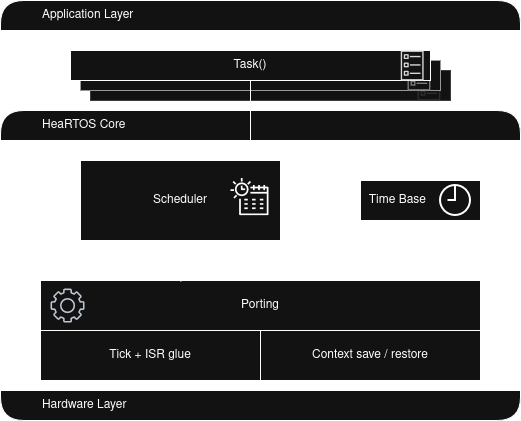
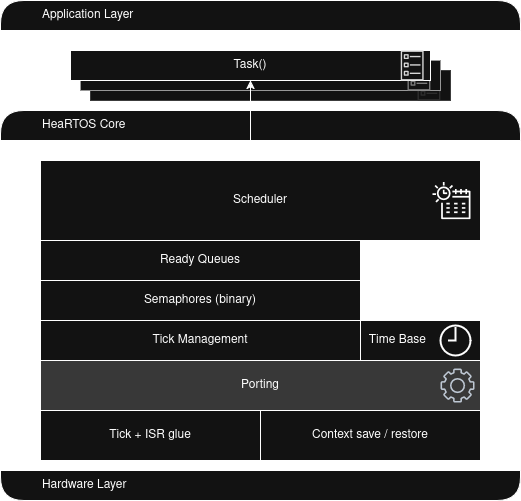
docs(heartos): Add diagrams in README.md

diff --git a/README.md b/README.md
@@ -22,6 +22,40 @@ Minimal footprint, predictable behavior, and zero hardware dependencies in its c
 
 ---
 
+### Architecture
+
+![architecture](docs/images/Architecture.png)]
+
+The Architecture is mainly divided in 3 layers:
+- **Application Layer** : Where the tasks are defined. e.g. camera, UART downlink, HK/FDIR, etc.
+- **HeaRTOS Core** : Where the RTOS lives, manages tasks and calls the port to switch context when necessary.
+  - **HeaRTOS Port** : Wraps the hardware specific methods.
+- **Hardware Layer** : Hardware specific methods, registers, primitives etc.
+
+### Task State Machine
+![task_state_machine.png](docs/images/task_state_machine.png)
+
+Where each task is executed in accordance of the policy adopted by the scheduler.
+
+### Scheduling Flow
+![scheduling_flow.png](docs/images/scheduling_flow.png)
+
+Tick (ISR/signal) -> hrt__tick_isr():
+  - g_tick++
+  - wake any SLEEP tasks whose wake_tick <= now
+  - hrt__pend_context_switch()  (set resched flag)
+
+Scheduler loop (port):
+ - if resched flag:
+   -  next = hrt__pick_next_ready()
+   -  swapcontext/PendSV to next task
+
+Task-level yield/sleep:
+  - mark state (READY->queue or SLEEP)
+  - hrt__pend_context_switch()
+  - hrt_port_yield_to_scheduler()  (safe handoff from task ctx)
+
+
 ## 📁 Repository Layout
 ```
 heartos/
@@ -74,66 +108,6 @@ For further information and CMake flags see [Build](docs/BUILD.md) document.
 ---
 
 ## 🗺 Diagrams
-
-### Architecture
-```
-+-----------------------------------------------------------+
-|                    Application Layer                      |
-|  (User tasks: camera, UART downlink, HK/FDIR, etc.)       |
-+---------------------------+-------------------------------+
-|          HeaRTOS Core     |          HeaRTOS Port         |
-|  - Scheduler              |  - hrt_port_start_systick()   |
-|  - Tick management        |  - hrt_port_enter_scheduler() |
-|  - Ready queues           |  - hrt_port_yield_to_scheduler() |
-|  - Semaphores (binary)    |  - hrt_port_idle_wait()       |
-+---------------------------+-------------------------------+
-|                     Hardware / OS Primitives              |
-| (Cortex-M SysTick/PendSV, or POSIX setitimer/ucontext)    |
-+-----------------------------------------------------------+
-```
-
-### Task State Machine
-```
-     +---------+
-     | CREATED |
-     +----+----+
-          |
-          v
-     +----+----+
-     |  READY  |<-----------------------------+
-     +----+----+                              |
-          |                                   |
-          v                                   |
-       +--+--+                                |
-       | RUN | -- hrt_yield() --------------> |
-       +--+--+                                |
-          |                                   |
-  hrt_sleep(ms)                               |
-          v                                   |
-       +--+----+       tick wakeup            |
-       | SLEEP | -----------------------------+
-       +-------+
-
-  (If task function returns -> EXIT, not re-queued)
-```
-
-### Scheduling Flow
-```
-Tick (ISR/signal) -> hrt__tick_isr():
-  - g_tick++
-  - wake any SLEEP tasks whose wake_tick <= now
-  - hrt__pend_context_switch()  (set resched flag)
-
-Scheduler loop (port):
-  if resched flag:
-     next = hrt__pick_next_ready()
-     swapcontext/PendSV to next task
-
-Task-level yield/sleep:
-  - mark state (READY->queue or SLEEP)
-  - hrt__pend_context_switch()
-  - hrt_port_yield_to_scheduler()  (safe handoff from task ctx)
-```
 
 ---
 
